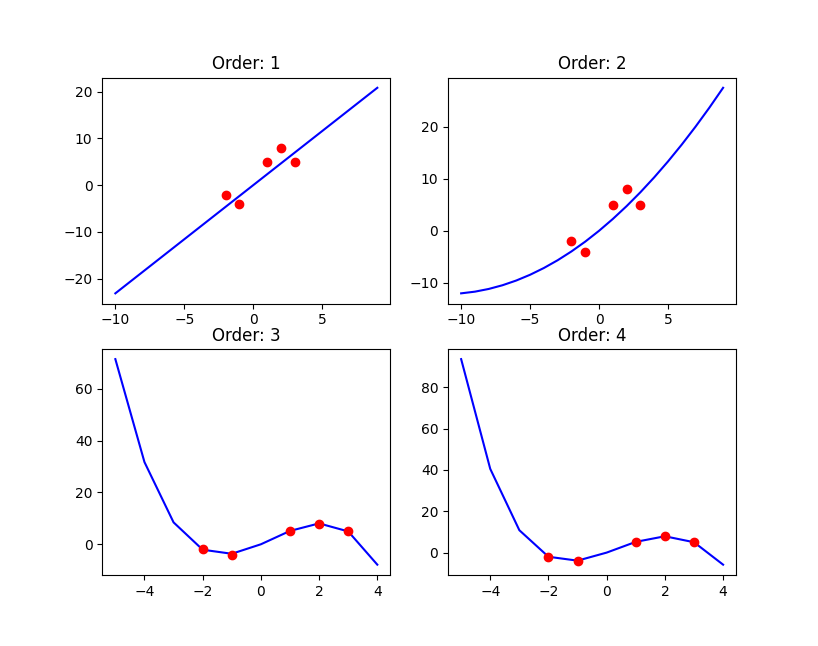
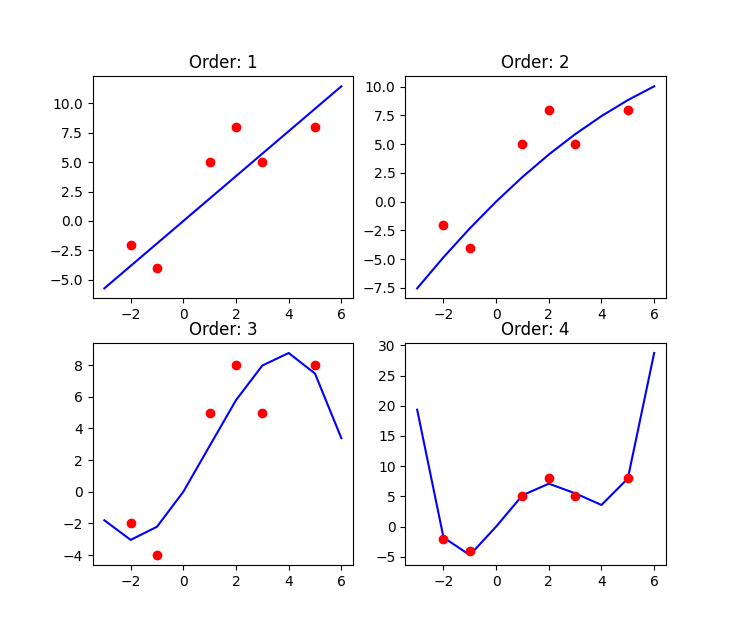
Updated

diff --git a/src/main.py b/src/main.py
@@ -4,12 +4,17 @@ from LeastSquares import LeastSquares
 
 figure, axis = plt.subplots(2, 2)
 
-# -- Linear --
-points = [(1, 5), (2, 8), (-1, -4), (3, 5), (-2, -2)]
+# Points to fit
+points = [
+    (1, 5), (2, 8), (-1, -4),
+    (3, 5), (-2, -2),(5, 8)
+]
+
+# -- Linear function --
 leastSquares = LeastSquares(points, 1)
 
 # plot function
-x = range(-10, 10)  # x values
+x = range(-3, 7)  # x values
 y = []
 for i in x:
     y.append(leastSquares.evaluateFunction(i))
@@ -29,12 +34,11 @@ axis[0, 0].plot(pointsx, pointsy, 'ro')
 axis[0, 0].set_title("Order: " + str(leastSquares.order))
 
 
-# -- Quadratic --
-points = [(1, 5), (2, 8), (-1, -4), (3, 5), (-2, -2)]
+# -- Quadratic function --
 leastSquares = LeastSquares(points, 2)
 
 # plot function
-x = range(-10, 10)  # x values
+x = range(-3, 7)  # x values
 y = []
 for i in x:
     y.append(leastSquares.evaluateFunction(i))
@@ -54,12 +58,11 @@ axis[0, 1].plot(pointsx, pointsy, 'ro')
 axis[0, 1].set_title("Order: " + str(leastSquares.order))
 
 
-# -- Cubic  --
-points = [(1, 5), (2, 8), (-1, -4), (3, 5), (-2, -2)]
+# -- Cubic function --
 leastSquares = LeastSquares(points, 3)
 
 # plot function
-x = range(-5, 5)  # x values
+x = range(-3, 7)  # x values
 y = []
 for i in x:
     y.append(leastSquares.evaluateFunction(i))
@@ -79,12 +82,11 @@ axis[1, 0].plot(pointsx, pointsy, 'ro')
 axis[1, 0].set_title("Order: " + str(leastSquares.order))
 
 
-# -- 4th order --
-points = [(1, 5), (2, 8), (-1, -4), (3, 5), (-2, -2)]
+# -- 4th order function --
 leastSquares = LeastSquares(points, 4)
 
 # plot function
-x = range(-5, 5)  # x values
+x = range(-3, 7)  # x values
 y = []
 for i in x:
     y.append(leastSquares.evaluateFunction(i))
@@ -102,7 +104,5 @@ for i in range(0, len(points)):
 
 axis[1, 1].plot(pointsx, pointsy, 'ro')
 axis[1, 1].set_title("Order: " + str(leastSquares.order))
-
-
 
 plt.show()

diff --git a/src/LeastSquares.py b/src/LeastSquares.py
@@ -1,3 +1,40 @@
+"""
+    Given the points: a1 = (a1x, a1y), a2 = (a2x, a2y), ..., ak = (akx, aky)
+    Being k the number of points and n the order of the function we want to fit
+
+    The function we're talking about is y = u1*x + u2*x^2 + ... + un*x^n. Its matrix form:
+
+    ⎛       2        n⎞
+    ⎜a1x a1x  ... a1x ⎟
+    ⎜                 ⎟   ⎛u1⎞   ⎛a1y⎞
+    ⎜       2        n⎟   ⎜  ⎟   ⎜   ⎟
+    ⎜a2x a2x  ... a2x ⎟   ⎜u2⎟   ⎜a2y⎟
+    ⎜                 ⎟ ⋅ ⎜  ⎟ = ⎜   ⎟
+    ⎜.   .    .   .   ⎟   ⎜. ⎟   ⎜.  ⎟
+    ⎜                 ⎟   ⎜  ⎟   ⎜   ⎟
+    ⎜       2        n⎟   ⎝un⎠   ⎝aky⎠
+    ⎝akx akx  ... akx ⎠
+
+    Being u1, u2, ..., un the solutions of the linear system
+
+    There is no solution for: Ax = b (Which mean that not all the points are in the colspace)
+    Multiplying both sides by A^T (A transpose):
+        A^TAx = A^Tb
+
+    Solving that new linear system we get the u1, u2, ..., un values which make the function
+    'y' fit better with the points a1, a2, ..., ak
+
+    If the residual 'ri', is ri = yi - y(xi), the function 'y' is the one which minimizes the
+    sum:
+
+      n
+     ___
+     ╲      2
+     ╱    ri
+     ‾‾‾
+    i = 1
+"""
+
 import numpy as np
 
 class LeastSquares:

diff --git a/README.md b/README.md
@@ -1,6 +1,9 @@
 # LeastSquares
 Least Squares method implemented in Python
 
+The method of least squares is a standard approach in regression analysis to approximate the solution of overdetermined systems (sets of equations in which there are more equations than unknowns) by minimizing the sum of the squares of the residuals (a residual being: the difference between an observed value, and the fitted value provided by a model) made in the results of each individual equation.
+
 [Least Squares](https://en.wikipedia.org/wiki/Least_squares)
 
+## Example
 ![alt text](https://github.com/MorcilloSanz/LeastSquares/blob/main/img/img.png)
